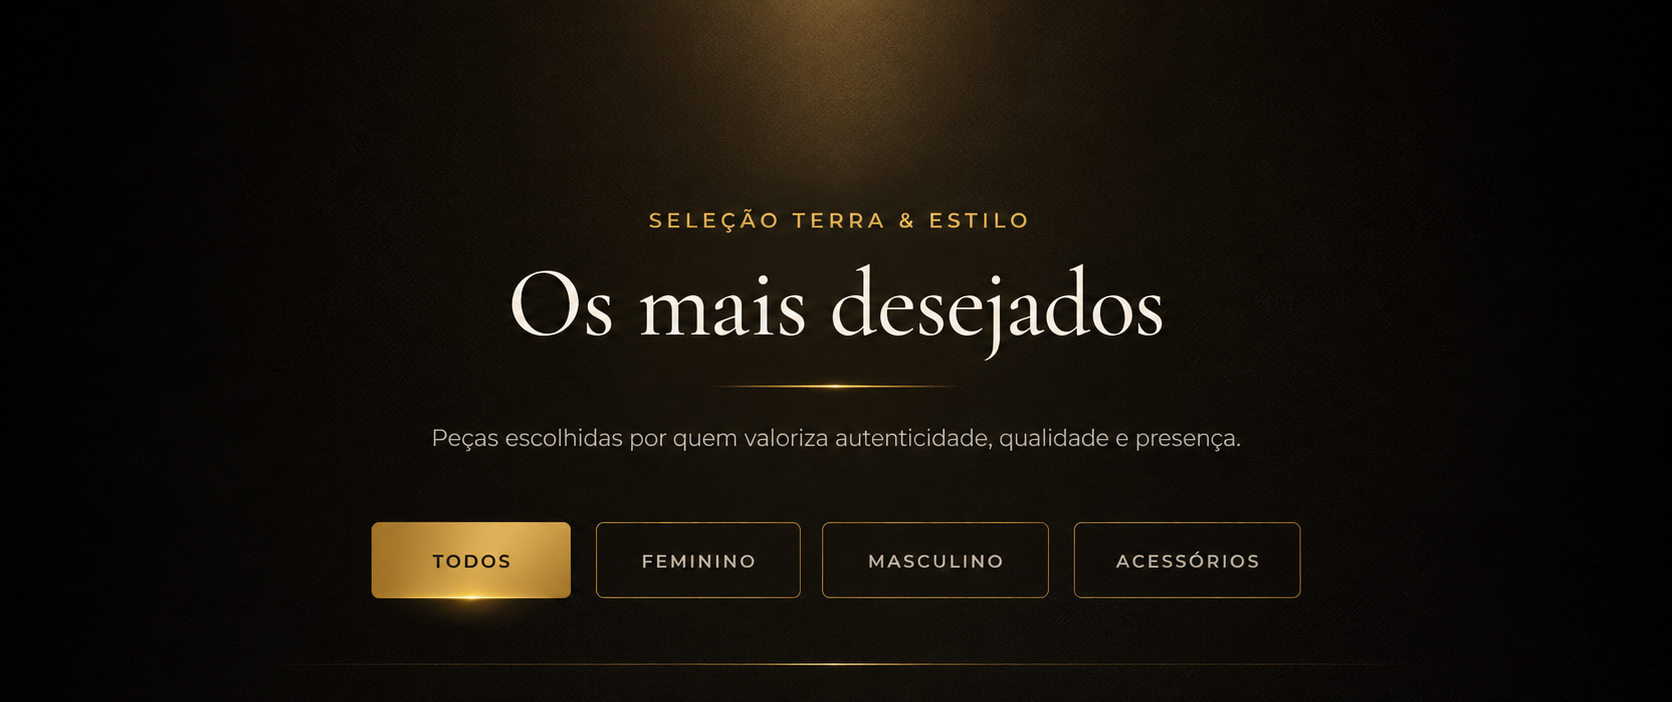
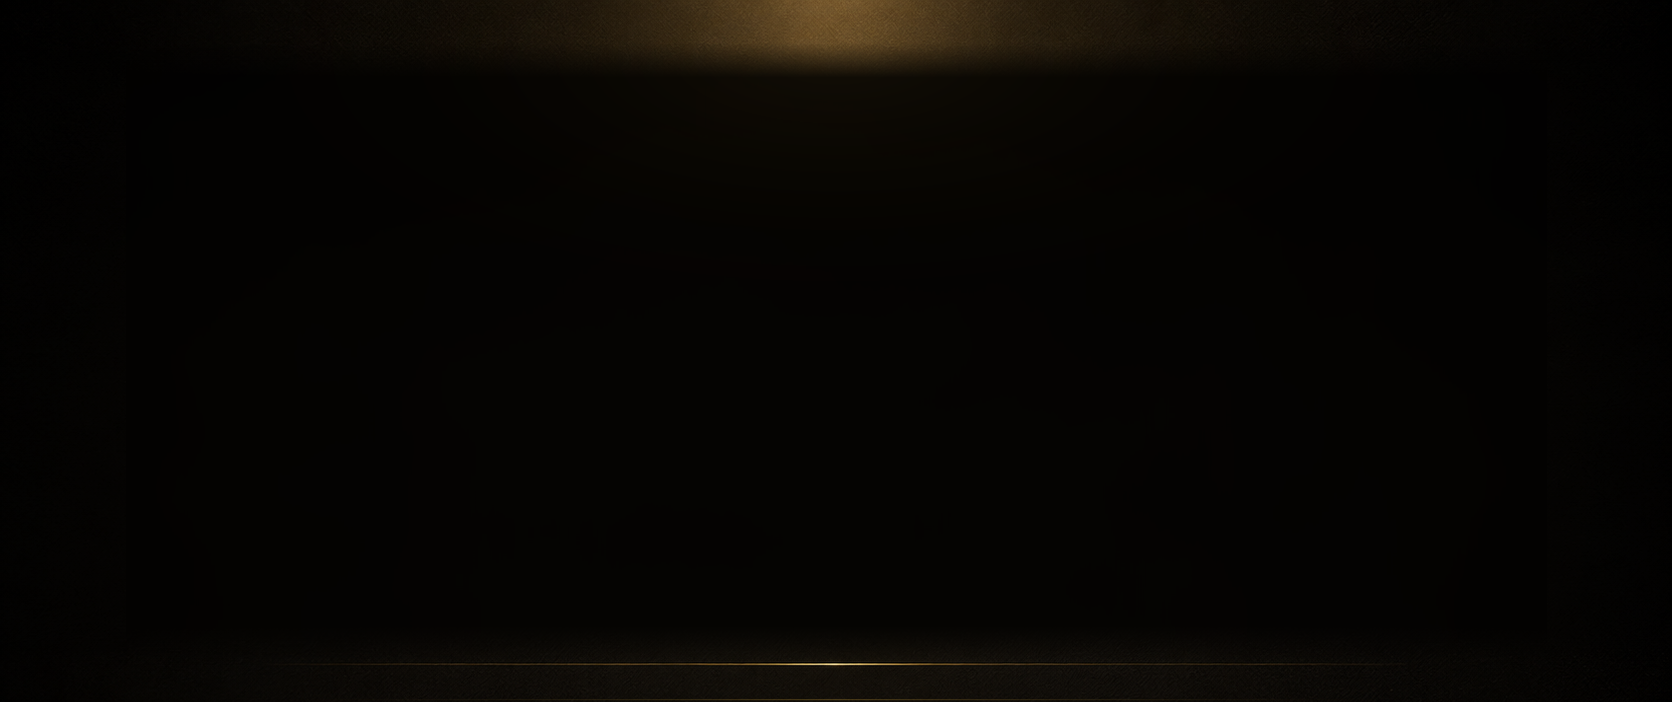
ajuste

diff --git a/src/home.css b/src/home.css
@@ -4504,15 +4504,23 @@ body.nav-drawer-open {
   gap: 28px;
 }
 
-/* ── Bestsellers / Coleção em evidência (id #favoritos for nav) ── */
+/* ── Bestsellers / Seleção Terra & Estilo (id #favoritos for nav) ── */
 .bestsellers-section {
   position: relative;
   isolation: isolate;
   padding-block: clamp(88px, 10vw, 128px);
-  background:
-    radial-gradient(ellipse 55% 42% at 50% 0%, rgba(201, 155, 50, 0.12), transparent 58%),
-    radial-gradient(ellipse 40% 30% at 85% 90%, rgba(43, 33, 23, 0.55), transparent 50%),
-    linear-gradient(180deg, #080807 0%, #12100d 48%, #1c1610 100%);
+  background-color: #080807;
+  background-image:
+    linear-gradient(
+      180deg,
+      rgba(8, 8, 7, 0.2) 0%,
+      rgba(8, 8, 7, 0.45) 42%,
+      rgba(8, 8, 7, 0.82) 100%
+    ),
+    var(--bestsellers-bg, none);
+  background-size: cover, cover;
+  background-position: center top, center top;
+  background-repeat: no-repeat;
   color: var(--color-text-light);
   overflow: hidden;
 }
@@ -4524,8 +4532,25 @@ body.nav-drawer-open {
   z-index: 0;
   pointer-events: none;
   background:
-    linear-gradient(90deg, transparent 0%, rgba(201, 155, 50, 0.04) 50%, transparent 100%);
-  opacity: 0.7;
+    radial-gradient(ellipse 55% 42% at 50% 0%, rgba(201, 155, 50, 0.08), transparent 58%);
+  opacity: 0.85;
+}
+
+.bestsellers-section::after {
+  content: '';
+  position: absolute;
+  left: 12%;
+  right: 12%;
+  bottom: 0;
+  z-index: 0;
+  height: 1px;
+  pointer-events: none;
+  background: linear-gradient(
+    90deg,
+    transparent,
+    rgba(201, 155, 50, 0.45) 50%,
+    transparent
+  );
 }
 
 .bestsellers-section > .container {
@@ -4536,7 +4561,7 @@ body.nav-drawer-open {
 .bestsellers-section__head,
 .bestsellers-section .section-head {
   text-align: center;
-  max-width: 620px;
+  max-width: 640px;
   margin: 0 auto 40px;
 }
 
@@ -4590,54 +4615,69 @@ body.nav-drawer-open {
   flex-wrap: wrap;
   justify-content: center;
   align-items: center;
-  gap: 0;
+  gap: 12px;
   margin: 0 auto 48px;
   padding: 0 8px;
-  border-bottom: 1px solid rgba(201, 155, 50, 0.22);
-  max-width: 720px;
+  border-bottom: none;
+  max-width: 760px;
 }
 
 .bestsellers-section__tab {
   position: relative;
-  min-height: 48px;
-  padding: 14px 22px;
+  min-height: 44px;
+  padding: 12px 22px;
   font-family: var(--font-sans);
   font-size: 0.6875rem;
   font-weight: 600;
   letter-spacing: 0.18em;
   text-transform: uppercase;
-  color: rgba(247, 241, 232, 0.52);
+  color: rgba(247, 241, 232, 0.88);
   background: transparent;
-  border: none;
-  border-radius: 0;
+  border: 1px solid rgba(201, 155, 50, 0.55);
+  border-radius: 4px;
   cursor: pointer;
-  transition: color 0.25s ease;
+  transition:
+    color 0.25s ease,
+    background 0.25s ease,
+    border-color 0.25s ease,
+    box-shadow 0.25s ease;
 }
 
 .bestsellers-section__tab::after {
   content: '';
   position: absolute;
-  left: 22px;
-  right: 22px;
+  left: 18%;
+  right: 18%;
   bottom: -1px;
-  height: 1.5px;
-  background: var(--color-gold);
-  transform: scaleX(0);
-  transform-origin: center;
-  transition: transform 0.28s ease;
+  height: 2px;
+  border-radius: 999px;
+  background: transparent;
+  box-shadow: none;
+  transform: none;
+  transition:
+    background 0.25s ease,
+    box-shadow 0.25s ease;
 }
 
 .bestsellers-section__tab:hover {
-  color: rgba(247, 241, 232, 0.92);
+  color: rgba(247, 241, 232, 0.98);
+  border-color: rgba(201, 155, 50, 0.85);
 }
 
 .bestsellers-section__tab.is-active {
-  color: var(--color-gold-light);
+  color: #1a140c;
+  background: linear-gradient(180deg, #e0c06a 0%, #c99b32 48%, #a87d22 100%);
+  border-color: transparent;
+  box-shadow: 0 0 18px rgba(201, 155, 50, 0.28);
 }
 
-.bestsellers-section__tab.is-active::after,
+.bestsellers-section__tab.is-active::after {
+  background: rgba(232, 200, 110, 0.95);
+  box-shadow: 0 0 10px rgba(232, 200, 110, 0.75);
+}
+
 .bestsellers-section__tab:hover::after {
-  transform: scaleX(1);
+  transform: none;
 }
 
 .bestsellers-section__tab:focus-visible {
@@ -5146,11 +5186,6 @@ body.nav-drawer-open {
     letter-spacing: 0.14em;
   }
 
-  .bestsellers-section__tab::after {
-    left: 16px;
-    right: 16px;
-  }
-
   .lookbook-section__layout {
     grid-template-columns: 1fr;
   }
@@ -5202,11 +5237,6 @@ body.nav-drawer-open {
     flex: 0 0 auto;
     padding: 12px 14px;
     font-size: 0.625rem;
-  }
-
-  .bestsellers-section__tab::after {
-    left: 14px;
-    right: 14px;
   }
 
   .products-grid--bestsellers {

diff --git a/src/data/homeData.js b/src/data/homeData.js
@@ -1,6 +1,7 @@
 import { assetUrl } from '../utils/assetUrl'
 import coupleHeroAsset from '../assets/hero-terra-estilo-novo.png'
 import raizHeroAsset from '../assets/raiz-hero.png'
+import desejadosAtmosphere from '../assets/desejados.png'
 import brandLogoCircular from '../assets/logo-terra-estilo.png'
 
 export const BRAND_LOGO_CIRCULAR_SRC = brandLogoCircular
@@ -185,10 +186,12 @@ export const featuredCollection = {
 export const bestsellersTabs = ['Todos', 'Feminino', 'Masculino', 'Acessórios']
 
 export const bestsellersSection = {
-  eyebrow: 'Coleção em evidência',
+  // Atmosphere scrubbed from desejados.png mockup (baked copy/tabs removed).
+  backgroundImage: desejadosAtmosphere,
+  eyebrow: 'Seleção Terra & Estilo',
   title: 'Os mais desejados',
   description:
-    'Cortes atemporais, acabamento refinado e a elegância do agro brasileiro — uma vitrine de peças para vestir com presença.',
+    'Peças escolhidas por quem valoriza autenticidade, qualidade e presença.',
   searchTitle: 'Resultados da busca',
   tabsLabel: 'Filtrar seleção',
 }

diff --git a/src/components/home/BestsellersSection.jsx b/src/components/home/BestsellersSection.jsx
@@ -34,6 +34,11 @@ function BestsellersSection() {
       id="mais-vendidos"
       className="bestsellers-section section"
       aria-labelledby="bestsellers-title"
+      style={
+        bestsellersSection.backgroundImage
+          ? { '--bestsellers-bg': `url(${bestsellersSection.backgroundImage})` }
+          : undefined
+      }
     >
       <div id="favoritos" className="visually-hidden" aria-hidden="true" />
       <div id="produtos" className="visually-hidden" aria-hidden="true" />
